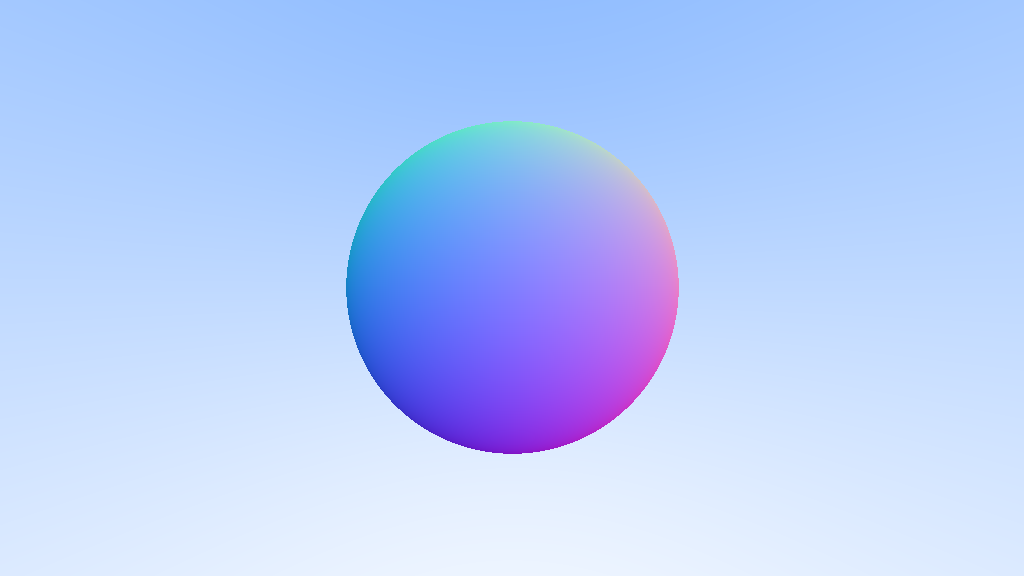
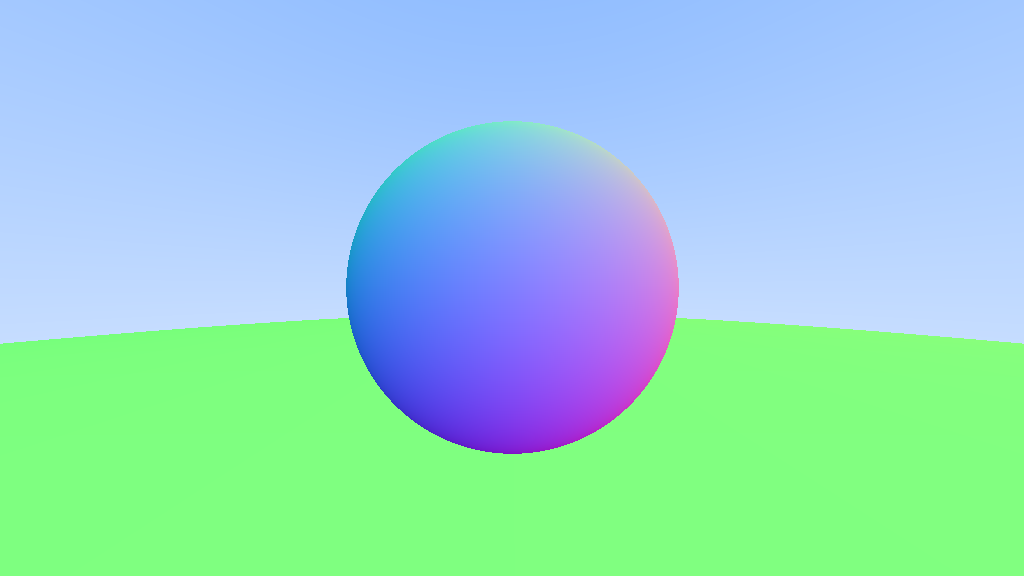
Implement scene that stores primitives and performs intersection queries

diff --git a/src/render/scene.rs b/src/render/scene.rs
@@ -1,0 +1,101 @@
+use crate::math::Color;
+use crate::math::Vec3;
+use crate::math::Ray;
+use crate::image::Image;
+use super::primitive::Primitive;
+use super::primitive::Intersection;
+
+pub struct Scene
+{
+    primitives: Vec<Box<dyn Primitive>>
+}
+
+impl Scene
+{
+    pub fn new() -> Scene
+    {
+        Scene
+        {
+            primitives: Vec::new()
+        }
+    }
+
+    pub fn add_primitive(&mut self, primitive: Box<dyn Primitive>) -> &mut Self
+    {
+        self.primitives.push(primitive);
+        self
+    }
+
+    pub fn render(&self, image: &mut Image)
+    {
+        let begin_time = std::time::Instant::now();
+
+        // Correct aspect ratio
+        let mut view_width = 4.0;
+        let mut view_height = 2.0;
+
+        if image.get_width() > image.get_height()
+        {
+            let source_width_aspect_ratio = view_width / view_height;
+            let target_width_aspect_ratio = image.get_width() as f32 / image.get_height() as f32;
+            view_width *= target_width_aspect_ratio / source_width_aspect_ratio;
+        }
+        else
+        {
+            let source_height_aspect_ratio = view_height / view_width;
+            let target_height_aspect_ratio = image.get_height() as f32 / image.get_width() as f32;
+            view_height *= target_height_aspect_ratio / source_height_aspect_ratio;
+        }
+
+        // Calculate view space
+        let bottom_left = Vec3::new(view_width * -0.5, view_height * -0.5, -1.0);
+        let horizontal_width = Vec3::new(view_width, 0.0, 0.0);
+        let vertical_height = Vec3::new(0.0, view_height, 0.0);
+        let origin = Vec3::new(0.0, 0.0, 0.0);
+
+        // Render image pixel by pixel
+        for y in 0..image.get_height()
+        {
+            for x in 0..image.get_width()
+            {
+                let color;
+
+                let u = x as f32 / image.get_width() as f32;
+                let v = y as f32 / image.get_height() as f32;
+
+                let ray = Ray::new(origin, bottom_left + horizontal_width * u + vertical_height * v);
+
+                if let Some(intersection) = self.intersect(&ray, 0.0, std::f32::MAX)
+                {
+                    color = Color::new(intersection.normal.x + 1.0, intersection.normal.y + 1.0, intersection.normal.z + 1.0, 1.0).mul_rgb(0.5);
+                }
+                else
+                {
+                    let alpha = (ray.direction.normalized().y + 1.0) * 0.5;
+                    color = Color::new(1.0, 1.0, 1.0, 1.0).mul_rgb(1.0 - alpha).add_rgba(Color::new(0.5, 0.7, 1.0, 1.0).mul_rgb(alpha));
+                }
+
+                image.set_pixel(x, y, color);
+            }
+        }
+
+        println!("Rendered image in {} seconds.", begin_time.elapsed().as_secs_f32());
+    }
+
+    fn intersect(&self, ray: &Ray, min_length: f32, max_length: f32) -> Option<Intersection>
+    {
+        let mut closest_intersection: Option<Intersection> = None;
+        let mut closest_length = max_length;
+
+        for primitive in self.primitives.iter()
+        {
+            if let Some(intersection) = primitive.intersect(ray, min_length, closest_length)
+            {
+                closest_length = intersection.length;
+                closest_intersection = Some(intersection);
+            }
+        }
+
+        closest_intersection
+    }
+}

diff --git a/src/main.rs b/src/main.rs
@@ -1,75 +1,19 @@
 mod math;
+mod render;
 mod image;
 
-use math::Color;
 use math::Vec3;
-use math::Ray;
-
 use image::Image;
-
-fn render_image(mut image: Image) -> Image
-{
-    let begin_time = std::time::Instant::now();
-
-    // Correct aspect ratio
-    let mut view_width = 4.0;
-    let mut view_height = 2.0;
-
-    if image.get_width() > image.get_height()
-    {
-        let source_width_aspect_ratio = view_width / view_height;
-        let target_width_aspect_ratio = image.get_width() as f32 / image.get_height() as f32;
-        view_width *= target_width_aspect_ratio / source_width_aspect_ratio;
-    }
-    else
-    {
-        let source_height_aspect_ratio = view_height / view_width;
-        let target_height_aspect_ratio = image.get_height() as f32 / image.get_width() as f32;
-        view_height *= target_height_aspect_ratio / source_height_aspect_ratio;
-    }
-
-    // Calculate view space
-    let bottom_left = Vec3::new(view_width * -0.5, view_height * -0.5, -1.0);
-    let horizontal_width = Vec3::new(view_width, 0.0, 0.0);
-    let vertical_height = Vec3::new(0.0, view_height, 0.0);
-    let origin = Vec3::new(0.0, 0.0, 0.0);
-
-    // Render image pixel by pixel
-    for y in 0..image.get_height()
-    {
-        for x in 0..image.get_width()
-        {
-            let color;
-
-            let u = x as f32 / image.get_width() as f32;
-            let v = y as f32 / image.get_height() as f32;
-
-            let ray = Ray::new(origin, bottom_left + horizontal_width * u + vertical_height * v);
-            let hit = ray.intersect_sphere(Vec3::new(0.0, 0.0, -1.0), 0.5);
-
-            if hit > 0.0
-            {
-                let normal = (ray.point_at(hit) - Vec3::new(0.0, 0.0, -1.0)).normalized();
-                color = Color::new(normal.x + 1.0, normal.y + 1.0, normal.z + 1.0, 1.0).mul_rgb(0.5);
-            }
-            else
-            {
-                let alpha = (ray.direction.normalized().y + 1.0) * 0.5;
-                color = Color::new(1.0, 1.0, 1.0, 1.0).mul_rgb(1.0 - alpha).add_rgba(Color::new(0.5, 0.7, 1.0, 1.0).mul_rgb(alpha));
-            }
-
-            image.set_pixel(x, y, color);
-        }
-    }
-
-    println!("Rendered image in {} seconds.", begin_time.elapsed().as_secs_f32());
-
-    image
-}
+use render::Sphere;
 
 fn main() 
 {
-    let image = render_image(Image::new(1024, 576));
+    let mut image = Image::new(1024, 576);
+
+    render::Scene::new()
+        .add_primitive(Box::new(Sphere::new(Vec3::new(0.0, 0.0, -1.0), 0.5)))
+        .add_primitive(Box::new(Sphere::new(Vec3::new(0.0, -100.5, -1.0), 100.0)))
+        .render(&mut image);
 
     image::Writer::new(Box::new(image::FormatPNM::new()))
         .input(&image).output("output/render.pnm").save()

diff --git a/src/render/sphere.rs b/src/render/sphere.rs
@@ -1,0 +1,67 @@
+use crate::math::Vec3;
+use crate::math::Ray;
+use super::primitive::Primitive;
+use super::primitive::Intersection;
+
+pub struct Sphere
+{
+    center: Vec3,
+    radius: f32
+}
+
+impl Sphere
+{
+    pub fn new(center: Vec3, radius: f32) -> Sphere
+    {
+        Sphere
+        {
+            center,
+            radius
+        }
+    }
+}
+
+impl Primitive for Sphere
+{
+    fn intersect(&self, ray: &Ray, min_length: f32, max_length: f32) -> Option<Intersection>
+    {
+        let oc = ray.origin - self.center;
+        let a = ray.direction.dot(ray.direction);
+        let b = 2.0 * oc.dot(ray.direction);
+        let c = oc.dot(oc) - self.radius * self.radius;
+        let discriminant = b * b - 4.0 * a * c;
+
+        if discriminant >= 0.0
+        {
+            let r1 = (-b - discriminant.sqrt()) / (2.0 * a);
+
+            if min_length < r1 && r1 < max_length
+            {
+                let intersection_point = ray.point_at(r1);
+
+                return Some(Intersection
+                {
+                    point: intersection_point,
+                    normal: (intersection_point - self.center).normalized(),
+                    length: r1
+                });
+            }
+
+            let r2 = (-b + discriminant.sqrt()) / (2.0 * a);
+
+            if min_length < r2 && r2 < max_length
+            {
+                let intersection_point = ray.point_at(r2);
+
+                return Some(Intersection
+                {
+                    point: intersection_point,
+                    normal: (intersection_point - self.center).normalized(),
+                    length: r2
+                });
+            }
+        }
+
+        None
+    }
+}

diff --git a/src/math/ray.rs b/src/math/ray.rs
@@ -17,26 +17,8 @@ impl Ray
         }
     }
 
-    pub fn point_at(&self, alpha: f32) -> Vec3
+    pub fn point_at(&self, length: f32) -> Vec3
     {
-        self.origin + self.direction * alpha
-    }
-
-    pub fn intersect_sphere(&self, center: Vec3, radius: f32) -> f32
-    {
-        let oc = self.origin - center;
-        let a = self.direction.dot(self.direction);
-        let b = 2.0 * oc.dot(self.direction);
-        let c = oc.dot(oc) - radius * radius;
-        let discriminant = b * b - 4.0 * a * c;
-
-        if discriminant >= 0.0
-        {
-            (-b - discriminant.sqrt()) / (2.0 * a)
-        }
-        else
-        {
-            discriminant
-        }
+        self.origin + self.direction * length
     }
 }

diff --git a/src/render/primitive.rs b/src/render/primitive.rs
@@ -1,0 +1,14 @@
+use crate::math::Vec3;
+use crate::math::Ray;
+
+pub struct Intersection
+{
+    pub point: Vec3,
+    pub normal: Vec3,
+    pub length: f32,
+}
+
+pub trait Primitive
+{
+    fn intersect(&self, ray: &Ray, min_length: f32, max_length: f32) -> Option<Intersection>;
+}

diff --git a/src/render/mod.rs b/src/render/mod.rs
@@ -1,0 +1,6 @@
+mod scene;
+mod primitive;
+mod sphere;
+
+pub use self::scene::Scene as Scene;
+pub use self::sphere::Sphere as Sphere;
